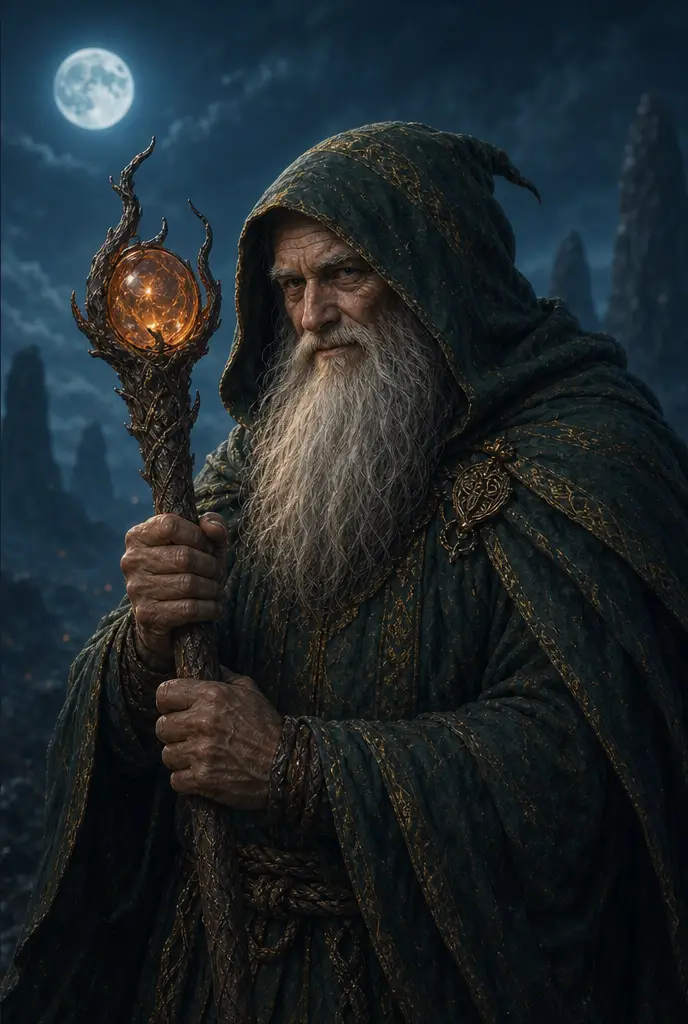
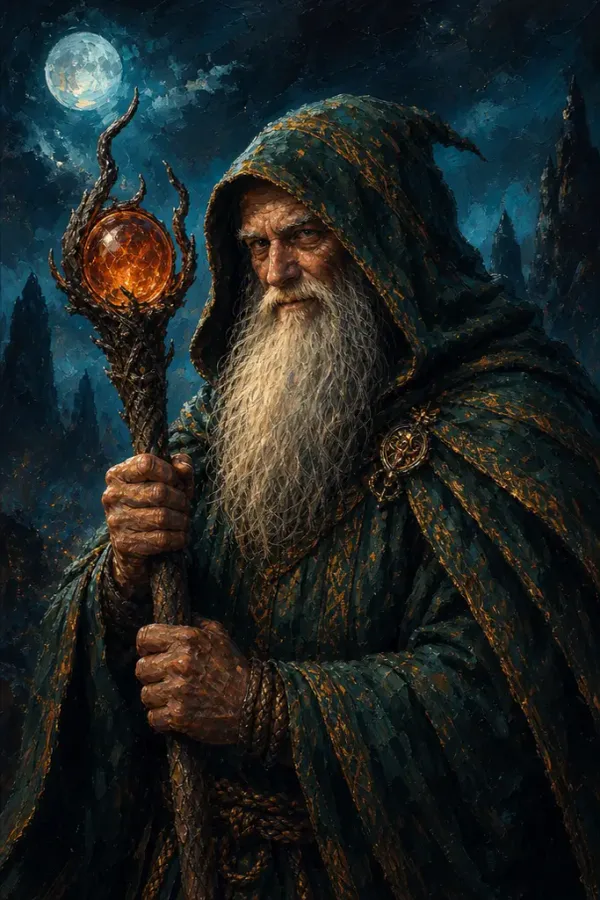
feat(cinematic): repaint knight & mage reveals to match painterly cast
Regenerate the two hero-character PortraitReveals (knight, mage) in the
same hand-painted oil style as the six new cast portraits, so the Cast
page reads as one consistent look. Designs held to canon via reference
images (guard keyart for the knight; prior mage portrait for the mage).
Same asset paths, so Cast.tsx wiring is unchanged.

diff --git a/docs/cinematic-build/00-plan-and-ledger.md b/docs/cinematic-build/00-plan-and-ledger.md
@@ -360,3 +360,34 @@ momo `79e5a763-b59b-496e-9374-4ded3362309b`. Installed to
   new painterly cast. Recommend regenerating those 2 to match (~4 cr) — awaiting user OK.
 - C (hero gate loop, 72 cr) not yet started — pending style approval + budget check.
 - Verify in browser (Cast reveals via spotlight, Lore pan/zoom), then commit on `cinematic`.
+
+### 2026-07-21 (cont. 2) — knight/mage repaint + C video IN FLIGHT
+
+User approved: (1) redo knight & mage painterly to match cast; (2) do C hero loop.
+
+**Knight/mage repaint** (`gpt_image_2` 1k/med 2:3, painterly preamble + reference):
+- knight job `6a8f1db3-57de-4536-ba31-8c35d69dad5f` — ref = guard `25f240b9-...`
+- mage  job `debc380a-ce49-477c-a91e-9381993af136` — ref = mage-ref `855ecd67-...`
+  (uploaded from the existing `src/assets/mage-cinematic-portrait.webp`)
+- INSTALL: download min webp, sharp resize 600x900 q82, OVERWRITE
+  `src/assets/knight-cinematic-portrait.webp` and `mage-cinematic-portrait.webp`.
+  Cast.tsx reveals ALREADY import those paths — no Cast edit needed. (~4 cr)
+
+**C hero gate loop** (`seedance_2_0` 8s 16:9, start_image = hero-dark `28527bca-...`):
+- job `36dcc690-51ba-4219-b46e-5ecfb4c941d1` — **36 cr** (not 72; cheaper than doc est).
+- start frame = `scratchpad/hero-dark.webp` = sharp composite of public/hero
+  dark-sky+dark-mid+dark-fore (2688x1520), uploaded as media 28527bca.
+- INSTALL: download mp4; re-encode (NO local ffmpeg — may need ffmpeg-static install,
+  or serve raw). Target `public/hero/gate-loop.(webm|mp4)`.
+- INTEGRATION (not yet done): a <video> layer faded in over the dark-fore hero plate,
+  DESKTOP + DARK theme only, preload="none", after requestIdleCallback, same
+  IntersectionObserver + reduced-motion gating as CinematicVigil.tsx. Find the hero
+  component that renders public/hero/dark-*.webp and add the layer there.
+
+**Resources:** cached sharp = `/c/Users/monda/AppData/Local/npm-cache/_npx/76dc10efc80ca823/node_modules/sharp`
+(require via argv, git path only resolves as argv not inline string). Dev server this
+session: port from preview_start (was 49913). vite base '/'.
+
+**Spend after these land:** 31 + ~4 + 36 = ~71 cr (~626 left; 240 reserve safe).
+Remaining TODO: install knight/mage, install+integrate C video, verify (canvas-probe
+for video per D.3), commit, update memory.